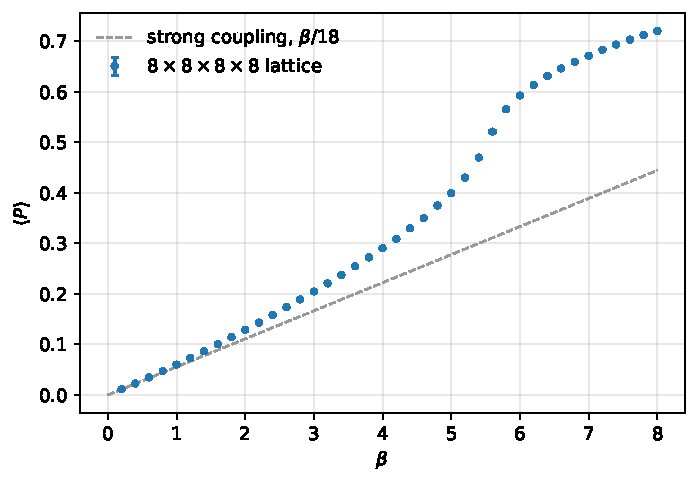
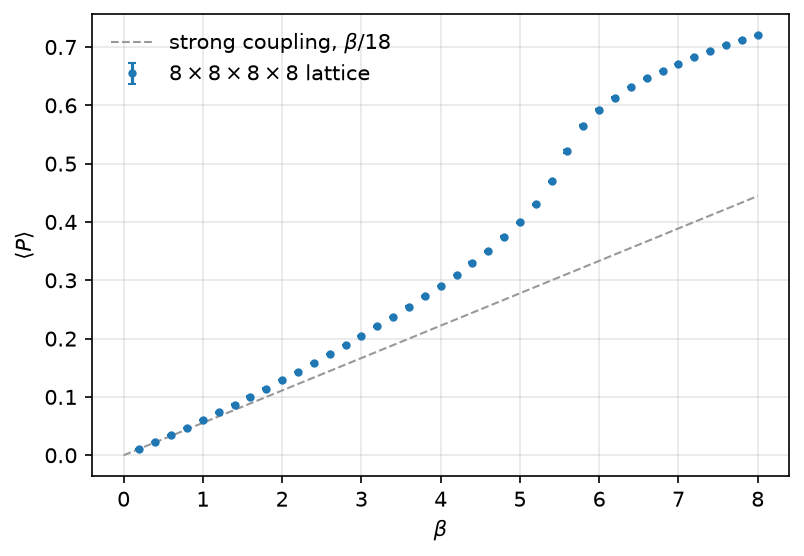
small change to README; clean render of png plot

diff --git a/README.md b/README.md
@@ -1,5 +1,6 @@
 # su3-fortran
 
+[![CI](https://github.com/langnic/su3-fortran/actions/workflows/ci.yml/badge.svg?branch=main)](https://github.com/langnic/su3-fortran/actions/workflows/ci.yml)
 
 `su3-fortran` is a simple Yang-Mills simulation code performing a beta-scan of the plaquette observable, implemented in modern Fortran with Coarrays for process-level concurrency.
 It is a slightly cleaned-up project from my physics master's at the University of Wuppertal. I decided to make it available to anyone curious about lattice field theory
@@ -110,7 +111,7 @@ Users of this codebase are encouraged to improve these things.
 
 ## References
 
-- [`report.pdf`](report.pdf): lab report (sources in `report/`)
+- [`report.pdf`](report.pdf): lab report
 - C. Gattringer, C. B. Lang, *Quantum Chromodynamics on the Lattice*, Springer (2010)
 - U. Wolff, *Monte Carlo errors with less errors*, Comput. Phys. Commun. 156 (2004) 143
 - F. Joswig et al., *pyerrors: a python framework for error analysis of Monte Carlo data*, Comput. Phys. Commun. 288 (2023) 108750
